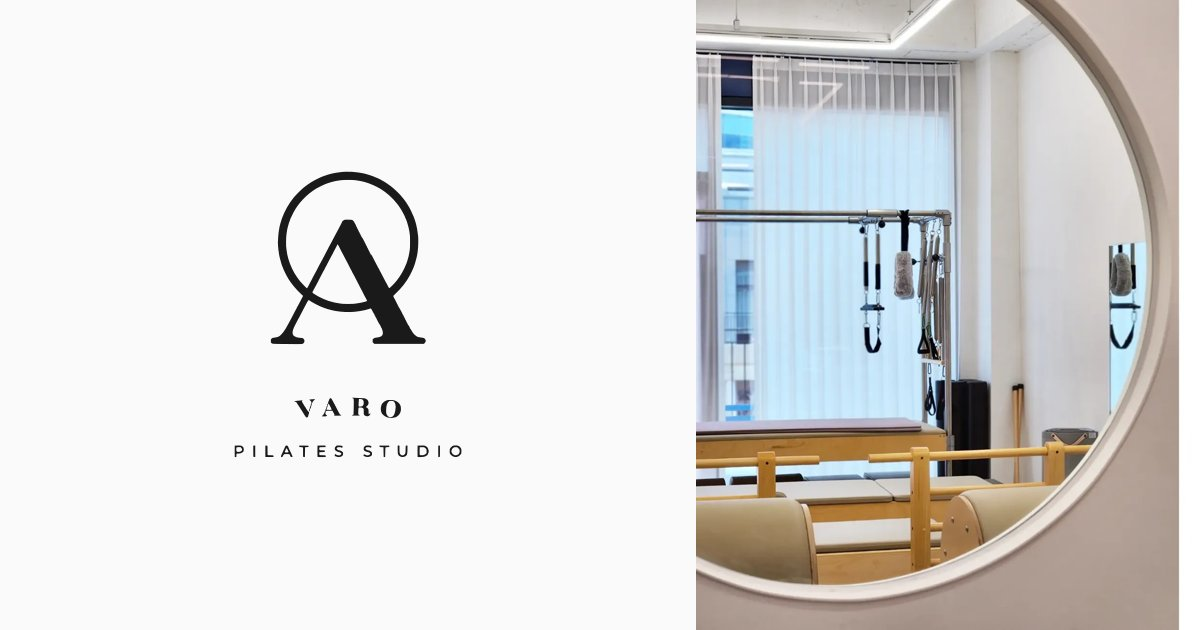
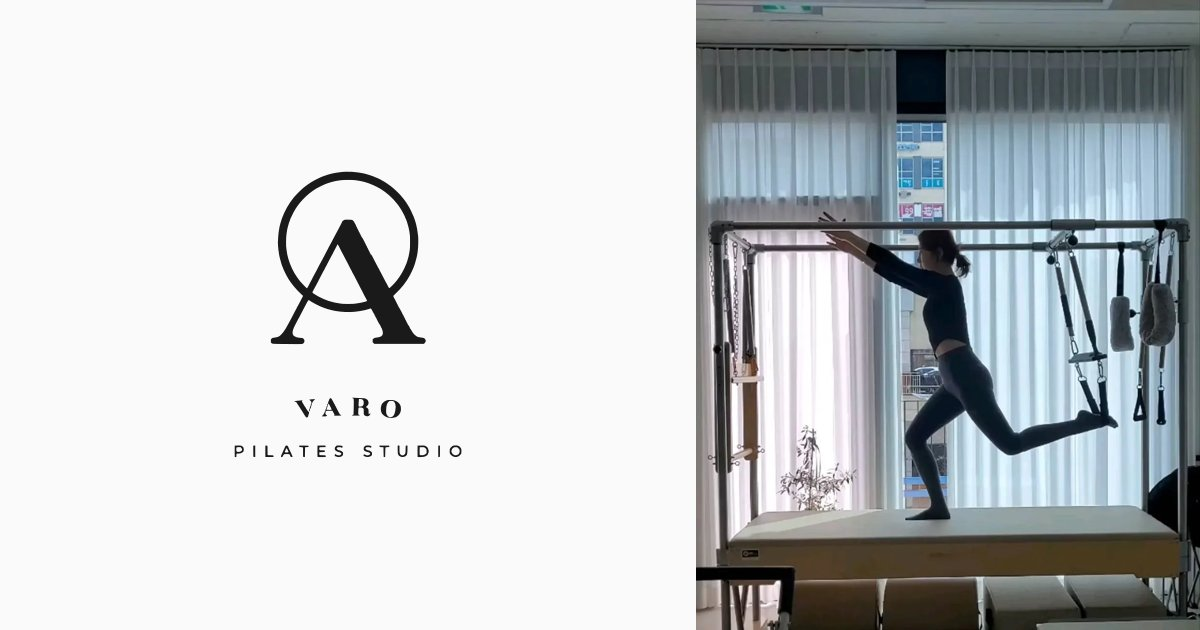
Add files via upload

diff --git a/index.html b/index.html
@@ -102,14 +102,25 @@ h2{ font-weight:400; font-size:clamp(1.65rem, 4.4vw, 2.4rem); line-height:1.4; l
 .hero .logo{ width:132px; }
 .hero h1{ font-weight:500; font-size:clamp(1.9rem, 6vw, 3.2rem); line-height:1.3; letter-spacing:-.03em; margin-top:26px; }
 .hero .sub{ color:var(--soft); font-size:clamp(1.02rem, 2.6vw, 1.2rem); margin-top:14px; }
-.hero .badge{ display:inline-flex; align-items:center; gap:10px; margin-top:22px; padding:8px 16px; border:1px solid var(--sand-l); border-radius:999px; font-size:.92rem; }
-.hero .badge i{ width:6px; height:6px; border-radius:50%; background:var(--sand); }
+.hero .cred{ margin-top:18px; font-size:.98rem; font-weight:500; color:var(--sand); letter-spacing:.01em; }
 .hero .arch{ aspect-ratio:4/5; max-width:520px; width:100%; justify-self:center; }
 .cta2{ display:grid; grid-template-columns:repeat(2, minmax(0,1fr)); gap:10px; margin-top:30px; max-width:520px; }
 @media (max-width:439px){ .cta2{ grid-template-columns:minmax(0,1fr); } }
 @media (min-width:640px){ .cta2{ display:flex; flex-wrap:wrap; } }
 @media (min-width:900px){ .hero{ padding:72px 0 112px; } .hero .wrap{ grid-template-columns:minmax(0,1.05fr) minmax(0,.95fr); gap:72px; } }
 
+/* 소개 · 지도 방식 */
+.team{ margin-top:22px; font-weight:500; font-size:1.05rem; }
+.checks{ list-style:none; margin-top:24px; border-top:1px solid var(--ink); }
+.checks li{ padding:14px 0 14px 28px; border-bottom:1px solid var(--line); position:relative; }
+.checks li::before{ content:""; position:absolute; left:2px; top:1.35em; width:12px; height:6px; border-left:1.5px solid var(--sand); border-bottom:1.5px solid var(--sand); transform:rotate(-45deg); }
+.quote{ margin-top:24px; color:var(--soft); }
+.teach{ display:grid; gap:40px; }
+.rec{ background:var(--bg2); border-radius:var(--arch); padding:56px 28px 32px; text-align:center; }
+.rec b{ font-weight:500; font-size:1.1rem; }
+.rec ul{ list-style:none; margin-top:16px; }
+.rec li{ padding:10px 0; border-top:1px solid var(--line); }
+@media (min-width:900px){ .teach{ grid-template-columns:minmax(0,1.2fr) minmax(0,.8fr); gap:80px; align-items:center; } }
 /* 케어 시스템 */
 .care-grid{ display:grid; gap:48px; }
 .points{ list-style:none; margin-top:36px; border-top:1px solid var(--ink); }
@@ -123,14 +134,25 @@ h2{ font-weight:400; font-size:clamp(1.65rem, 4.4vw, 2.4rem); line-height:1.4; l
 .prog li{ background:var(--bg); border:1px solid var(--line); border-radius:var(--r); padding:22px 18px 24px; }
 .prog i{ display:block; font-style:normal; font-family:var(--display); font-size:1rem; color:var(--sand); }
 .prog b{ display:block; font-weight:500; font-size:clamp(1.05rem, 3vw, 1.25rem); margin-top:8px; }
+.prog p{ color:var(--soft); font-size:.92rem; line-height:1.7; margin-top:8px; }
 @media (min-width:768px){ .prog{ grid-template-columns:repeat(3, minmax(0,1fr)); gap:14px; } .prog li{ padding:28px 24px 30px; } }
 .lessons{ display:grid; gap:10px; margin-top:44px; }
 .lessons div{ display:flex; align-items:baseline; gap:16px; padding:18px 22px; border:1px solid var(--ink); border-radius:999px; }
 .lessons b{ font-family:var(--display); font-weight:400; font-size:1.35rem; min-width:2.6em; }
 .lessons span{ font-size:1.02rem; }
+.lessons small{ display:block; color:var(--soft); font-size:.85rem; line-height:1.5; }
+.lessons div{ align-items:center; }
 @media (min-width:768px){ .lessons{ grid-template-columns:repeat(3, minmax(0,1fr)); gap:14px; } }
 .price-note{ margin-top:22px; color:var(--soft); font-size:.95rem; }
 
+/* 체험 */
+.trial{ display:grid; gap:36px; }
+.for{ margin-top:16px; font-weight:500; color:var(--sand); }
+.trial-list{ list-style:none; display:grid; grid-template-columns:repeat(3, minmax(0,1fr)); gap:10px; }
+.trial-list li{ border:1px solid var(--line); border-radius:var(--arch); padding:40px 10px 26px; text-align:center; background:var(--bg); }
+.trial-list b{ display:block; font-family:var(--display); font-weight:400; font-size:1.8rem; }
+.trial-list span{ display:block; font-size:.92rem; margin-top:6px; }
+@media (min-width:900px){ .trial{ grid-template-columns:minmax(0,1fr) minmax(0,1fr); gap:72px; align-items:center; } }
 /* 스튜디오 */
 .studio{ display:grid; grid-template-columns:repeat(2, minmax(0,1fr)); gap:10px; margin-top:44px; }
 .studio figure{ margin:0; overflow:hidden; border-radius:var(--r); aspect-ratio:3/4; background:var(--bg2); }
@@ -149,13 +171,14 @@ h2{ font-weight:400; font-size:clamp(1.65rem, 4.4vw, 2.4rem); line-height:1.4; l
 .info dt{ color:var(--mute); }
 .info a{ text-underline-offset:3px; }
 .info small{ display:block; color:var(--soft); font-size:.88rem; }
+.btn.sm{ min-height:44px; padding:0 18px; font-size:.88rem; margin-top:18px; }
 .map{ width:100%; height:240px; border:0; border-radius:var(--r); background:var(--bg2); display:block; margin-top:18px; filter:grayscale(.6); }
 @media (min-width:900px){ .branches{ grid-template-columns:repeat(2, minmax(0,1fr)); gap:24px; } .branch{ padding:34px 30px; } .map{ height:300px; } }
 
 /* 상담 */
 .ask{ text-align:center; }
 .ask .en{ margin-inline:auto; }
-.ask h2{ margin-inline:auto; max-width:20em; }
+.ask h2{ margin-inline:auto; max-width:22em; }
 .ask .cta2{ margin:30px auto 0; justify-content:center; }
 
 /* 푸터 */
@@ -184,16 +207,18 @@ h2{ font-weight:400; font-size:clamp(1.65rem, 4.4vw, 2.4rem); line-height:1.4; l
   <div class="wrap bar">
     <a class="brand" href="#top" aria-label="바로필라테스 처음으로"><img src="vp-mark.svg" alt="" width="191" height="212" /><span>VARO</span></a>
     <nav class="nav" aria-label="섹션">
-      <a href="#care">케어</a>
+      <a href="#about">소개</a>
       <a href="#program">프로그램</a>
+      <a href="#trial">체험</a>
       <a href="#studio">스튜디오</a>
       <a href="#branch">지점</a>
     </nav>
     <a class="btn fill" href="https://open.kakao.com/o/sKzPUZ2e" target="_blank" rel="noopener">카카오톡 상담</a>
   </div>
   <nav class="snav" aria-label="섹션 바로가기">
-    <a href="#care">케어</a>
+    <a href="#about">소개</a>
     <a href="#program">프로그램</a>
+    <a href="#trial">체험</a>
     <a href="#studio">스튜디오</a>
     <a href="#branch">지점</a>
   </nav>
@@ -204,51 +229,92 @@ h2{ font-weight:400; font-size:clamp(1.65rem, 4.4vw, 2.4rem); line-height:1.4; l
     <div class="wrap">
       <div>
         <img class="logo" src="vp-logo.svg" alt="VARO PILATES STUDIO" width="278" height="349" />
-        <h1>김포 장기동 <span class="nw">바로필라테스</span></h1>
+        <h1>바로 필라테스</h1>
         <p class="sub">물리치료사출신 원장.강사진이 지도하는센터</p>
-        <p class="badge"><i aria-hidden="true"></i>15년이상임상경험 물리치료사</p>
+        <p class="cred">15년이상임상경험 물리치료사</p>
         <div class="cta2">
           <a class="btn fill" href="https://open.kakao.com/o/sKzPUZ2e" target="_blank" rel="noopener">카카오톡 상담</a>
           <a class="btn" href="tel:01090239836">레슨문의 <span class="nw">010-9023-9836</span></a>
         </div>
       </div>
-      <figure class="arch"><img src="vp-hero.webp" alt="원형 거울에 비친 리포머와 캐딜락, 리넨 커튼 창" width="1040" height="1300" fetchpriority="high" /></figure>
+      <figure class="arch"><img src="vp-hero.webp" alt="리넨 커튼 창가 캐딜락 위에서 동작하는 모습의 실루엣" width="1040" height="1300" fetchpriority="high" /></figure>
     </div>
   </section>
 
-  <section class="sec alt" id="care" aria-labelledby="care-h">
+  <section class="sec alt" id="about" aria-labelledby="about-h">
     <div class="wrap care-grid">
       <figure class="arch reveal"><img src="vp-about.webp" alt="올리브 나무와 라탄 거울이 놓인 스튜디오 선반" width="800" height="1000" loading="lazy" /></figure>
       <div>
-        <span class="en reveal">Care System</span>
-        <h2 id="care-h" class="reveal">물리치료사 3인 전문 케어 시스템</h2>
-        <ol class="points">
-          <li class="reveal"><i>01</i><span>단순한 운동을 넘은 체형 교정 중심 필라테스</span></li>
-          <li class="reveal"><i>02</i><span>정확한 분석과 통증 케어에 강한 전문가 수업</span></li>
-          <li class="reveal"><i>03</i><span>안전하고 효과적인 <span class="nw">1:1 또는 2:1</span> 소수정예 지도</span></li>
-        </ol>
+        <span class="en reveal">About</span>
+        <h2 id="about-h" class="reveal">김포에서 체형을 제대로 바꾸고 싶은 분들을 위한 <span class="nw">프리미엄 필라테스</span> 스튜디오입니다.</h2>
+        <p class="team reveal">물리치료사 출신 원장 &amp; <span class="nw">경력 5~10년 이상</span> 강사진</p>
+        <ul class="checks">
+          <li class="reveal">개인레슨 / 2:1 / 4:1 소그룹 수업</li>
+          <li class="reveal">체형·통증·운동 목적에 맞춘 맞춤 진행</li>
+          <li class="reveal">소수정원으로 동작 하나하나 섬세하게 체크</li>
+          <li class="reveal">운동 초보자도 부담 없이 시작 가능</li>
+        </ul>
+        <p class="quote reveal">단순히 동작만 따라 하는 수업이 아닌, ‘왜 이 동작을 하는지’ 이해하며 내 몸의 변화를 느낄 수 있는 수업을 진행합니다.</p>
       </div>
     </div>
   </section>
 
-  <section class="sec" id="program" aria-labelledby="program-h">
+  <section class="sec" id="care" aria-labelledby="care-h">
+    <div class="wrap teach">
+      <div>
+        <span class="en reveal">Teaching</span>
+        <h2 id="care-h" class="reveal">한 동작, 한 호흡까지 섬세하게</h2>
+        <ol class="points">
+          <li class="reveal"><i>01</i><span>체형 분석 기반 맞춤 지도</span></li>
+          <li class="reveal"><i>02</i><span>통증 완화 &amp; 체형 교정 전문</span></li>
+          <li class="reveal"><i>03</i><span>초보자도 편안하게 시작 가능한 수업</span></li>
+        </ol>
+      </div>
+      <div class="rec reveal">
+        <b>이런 분들께 추천드려요</b>
+        <ul>
+          <li>자세 교정이 필요한 분</li>
+          <li>허리/목 통증이 있으신 분</li>
+          <li>운동 처음 시작하시는 분</li>
+        </ul>
+      </div>
+    </div>
+  </section>
+
+  <section class="sec alt" id="program" aria-labelledby="program-h">
     <div class="wrap">
       <span class="en reveal">Program</span>
-      <h2 id="program-h" class="reveal">재활교정/산전.산후/개인.듀엣/키즈</h2>
+      <h2 id="program-h" class="reveal"><span class="nw">재활교정/</span><wbr><span class="nw">산전.산후/</span><wbr><span class="nw">개인.듀엣/</span><wbr><span class="nw">키즈</span></h2>
       <ul class="prog">
-        <li class="reveal"><i>01</i><b>산전.산후</b></li>
-        <li class="reveal"><i>02</i><b>재활</b></li>
-        <li class="reveal"><i>03</i><b>다이어트</b></li>
-        <li class="reveal"><i>04</i><b>근력증진</b></li>
-        <li class="reveal"><i>05</i><b>키즈</b></li>
-        <li class="reveal"><i>06</i><b>자세교정</b></li>
+        <li class="reveal"><i>01</i><b>산전.산후</b><p>산모를 위한 임산부 필라테스로 몸의 변화에 맞춰 움직여요.</p></li>
+        <li class="reveal"><i>02</i><b>재활</b><p>통증 완화와 체형 교정에 맞춰 몸 상태를 살피며 진행해요.</p></li>
+        <li class="reveal"><i>03</i><b>다이어트</b><p>균형 잡힌 몸을 목표로 꾸준히 움직이는 습관을 만들어요.</p></li>
+        <li class="reveal"><i>04</i><b>근력증진</b><p>코어부터 근력과 체력을 차근차근 키워요.</p></li>
+        <li class="reveal"><i>05</i><b>키즈</b><p>놀면서 운동하며 집중력과 자세를 함께 길러요.</p></li>
+        <li class="reveal"><i>06</i><b>자세교정</b><p>체형 분석을 바탕으로 바른 자세를 만들어 가요.</p></li>
       </ul>
       <div class="lessons">
-        <div class="reveal"><b>1:1</b><span>개인레슨</span></div>
+        <div class="reveal"><b>1:1</b><span>개인레슨<small>수업 시간 40분</small></span></div>
         <div class="reveal"><b>2:1</b><span>듀엣레슨</span></div>
-        <div class="reveal"><b>4:1</b><span>그룹레슨</span></div>
+        <div class="reveal"><b>4:1</b><span>그룹 기구필라테스<small>평일 하루 1회 이용 가능한 그룹 무제한 프로그램</small></span></div>
       </div>
       <p class="price-note reveal">수업 가격은 상담 시 안내해 드려요.</p>
+    </div>
+  </section>
+
+  <section class="sec" id="trial" aria-labelledby="trial-h">
+    <div class="wrap trial">
+      <div>
+        <span class="en reveal">First Visit</span>
+        <h2 id="trial-h" class="reveal">바로필라테스 4회 체험권</h2>
+        <p class="lead reveal">총 4회 수업을 통해 필라테스의 기본적인 움직임과 다양한 기구를 직접 경험해보실 수 있도록 구성했습니다.</p>
+        <p class="for reveal">필라테스를 처음 시작하시는 분</p>
+      </div>
+      <ul class="trial-list">
+        <li class="reveal"><b>2회</b><span>리포머 수업</span></li>
+        <li class="reveal"><b>1회</b><span>체어 수업</span></li>
+        <li class="reveal"><b>1회</b><span>바렐 수업</span></li>
+      </ul>
     </div>
   </section>
 
@@ -257,7 +323,7 @@ h2{ font-weight:400; font-size:clamp(1.65rem, 4.4vw, 2.4rem); line-height:1.4; l
       <span class="en reveal">Studio</span>
       <h2 id="studio-h" class="reveal">스튜디오</h2>
       <div class="studio">
-        <figure class="a reveal"><img src="vp-g1.webp" alt="창가 캐딜락에서 운동하는 모습의 실루엣" width="619" height="1100" loading="lazy" /></figure>
+        <figure class="a reveal"><img src="vp-g1.webp" alt="원형 거울 너머로 보이는 캐딜락과 리넨 커튼" width="760" height="950" loading="lazy" /></figure>
         <figure class="w reveal"><img src="vp-g2.webp" alt="리넨 커튼 앞 캐딜락에서 몸을 뻗는 동작" width="1100" height="770" loading="lazy" /></figure>
         <figure class="a reveal"><img src="vp-g3.webp" alt="원목 캐딜락과 스프링 기구" width="619" height="1100" loading="lazy" /></figure>
         <figure class="reveal"><img src="vp-g5.webp" alt="타원형 문과 둥근 테이블이 있는 라운지" width="1100" height="804" loading="lazy" /></figure>
@@ -272,27 +338,30 @@ h2{ font-weight:400; font-size:clamp(1.65rem, 4.4vw, 2.4rem); line-height:1.4; l
     <div class="wrap">
       <span class="en reveal">Location</span>
       <h2 id="branch-h" class="reveal">지점 안내</h2>
+      <p class="lead reveal">김포 장기동 위치 / 주차 가능</p>
       <div class="branches">
         <article class="branch reveal">
           <span class="en">Lavenice</span>
-          <h3>김포라베니체8차</h3>
+          <h3>라베니체점</h3>
           <dl class="info">
-            <div><dt>주소</dt><dd>경기 김포시 <span class="nw">태장로 820-26</span> 202호</dd></div>
+            <div><dt>주소</dt><dd>경기 김포시 <span class="nw">태장로 820-26</span> 202호<small>김포라베니체8차 202호</small></dd></div>
             <div><dt>찾아가는 길</dt><dd>라베니체 8차 프렌즈네일샵 옆. 래미안아파트 후문.</dd></div>
             <div><dt>운영</dt><dd>월 - 금 <span class="nw">09:00 - 22:00</span><small>토 <span class="nw">09:00 - 13:00</span> · <span class="nw">정기휴무 (매주 일요일)</span></small></dd></div>
             <div><dt>전화</dt><dd><a href="tel:050713249836" class="nw">0507-1324-9836</a></dd></div>
           </dl>
-          <iframe class="map" title="라베니체8차 지점 지도" src="https://maps.google.com/maps?q=%EA%B2%BD%EA%B8%B0%20%EA%B9%80%ED%8F%AC%EC%8B%9C%20%ED%83%9C%EC%9E%A5%EB%A1%9C%20820-26&amp;z=17&amp;output=embed" loading="lazy" referrerpolicy="no-referrer-when-downgrade"></iframe>
+          <a class="btn sm" href="https://m.place.naver.com/place/1046946513/home" target="_blank" rel="noopener">네이버 예약 · 플레이스</a>
+          <iframe class="map" title="라베니체점 지도" src="https://maps.google.com/maps?q=%EA%B2%BD%EA%B8%B0%20%EA%B9%80%ED%8F%AC%EC%8B%9C%20%ED%83%9C%EC%9E%A5%EB%A1%9C%20820-26&amp;z=17&amp;output=embed" loading="lazy" referrerpolicy="no-referrer-when-downgrade"></iframe>
         </article>
         <article class="branch reveal">
           <span class="en">Hangang Central Xi</span>
-          <h3>김포한강센트럴자이1차</h3>
+          <h3>자이점</h3>
           <dl class="info">
             <div><dt>주소</dt><dd>김포한강센트럴자이1차 정문상가304호</dd></div>
-            <div><dt>찾아가는 길</dt><dd>자이1차 정문상가 GS더프레시 3층</dd></div>
-            <div><dt>전화</dt><dd><a href="tel:01033560405" class="nw">010-3356-0405</a></dd></div>
+            <div><dt>찾아가는 길</dt><dd>김포 장기동 한강센트럴자이 1차 정문상가 3층 <span class="nw">(GS더프레시 상가)</span></dd></div>
+            <div><dt>전화</dt><dd><a href="tel:01033560405" class="nw">010-3356-0405</a><small>상담 문의</small></dd></div>
           </dl>
-          <iframe class="map" title="한강센트럴자이1차 지점 지도" src="https://maps.google.com/maps?q=%EA%B9%80%ED%8F%AC%20%ED%95%9C%EA%B0%95%EC%84%BC%ED%8A%B8%EB%9F%B4%EC%9E%90%EC%9D%B41%EC%B0%A8&amp;z=16&amp;output=embed" loading="lazy" referrerpolicy="no-referrer-when-downgrade"></iframe>
+          <a class="btn sm" href="https://open.kakao.com/o/shMwDLvg" target="_blank" rel="noopener">자이점 카카오톡 오픈채팅</a>
+          <iframe class="map" title="자이점 지도" src="https://maps.google.com/maps?q=%EA%B9%80%ED%8F%AC%20%ED%95%9C%EA%B0%95%EC%84%BC%ED%8A%B8%EB%9F%B4%EC%9E%90%EC%9D%B41%EC%B0%A8&amp;z=16&amp;output=embed" loading="lazy" referrerpolicy="no-referrer-when-downgrade"></iframe>
         </article>
       </div>
     </div>
@@ -301,10 +370,10 @@ h2{ font-weight:400; font-size:clamp(1.65rem, 4.4vw, 2.4rem); line-height:1.4; l
   <section class="sec alt ask" aria-labelledby="ask-h">
     <div class="wrap">
       <span class="en reveal">Contact</span>
-      <h2 id="ask-h" class="reveal">레슨문의</h2>
+      <h2 id="ask-h" class="reveal">바른 자세와 건강한 움직임을 위한 운동,<br>가까운 VARO PILATES에서 시작해 보세요!</h2>
       <div class="cta2 reveal">
         <a class="btn fill" href="https://open.kakao.com/o/sKzPUZ2e" target="_blank" rel="noopener">카카오톡 상담</a>
-        <a class="btn" href="tel:01090239836"><span class="nw">010-9023-9836</span></a>
+        <a class="btn" href="tel:01090239836">레슨문의 <span class="nw">010-9023-9836</span></a>
       </div>
     </div>
   </section>
@@ -313,7 +382,7 @@ h2{ font-weight:400; font-size:clamp(1.65rem, 4.4vw, 2.4rem); line-height:1.4; l
 <footer class="foot">
   <div class="wrap">
     <a class="brand" href="#top" aria-label="바로필라테스 처음으로"><img src="vp-mark.svg" alt="" width="191" height="212" loading="lazy" /><span>VARO</span></a>
-    <p>바로필라테스 · 김포라베니체8차 202호 · 김포한강센트럴자이1차 정문상가304호</p>
+    <p>바로필라테스 · 라베니체점 <span class="nw">김포라베니체8차 202호</span> · 자이점 <span class="nw">김포한강센트럴자이1차</span> 정문상가304호</p>
     <p>레슨문의 <a href="tel:01090239836" class="nw">010-9023-9836</a> · <a href="https://www.instagram.com/varo_pilates/" target="_blank" rel="noopener">@varo_pilates</a> · <a href="https://m.place.naver.com/place/1046946513/home" target="_blank" rel="noopener">네이버 플레이스</a></p>
     <p>© VARO PILATES STUDIO</p>
   </div>
